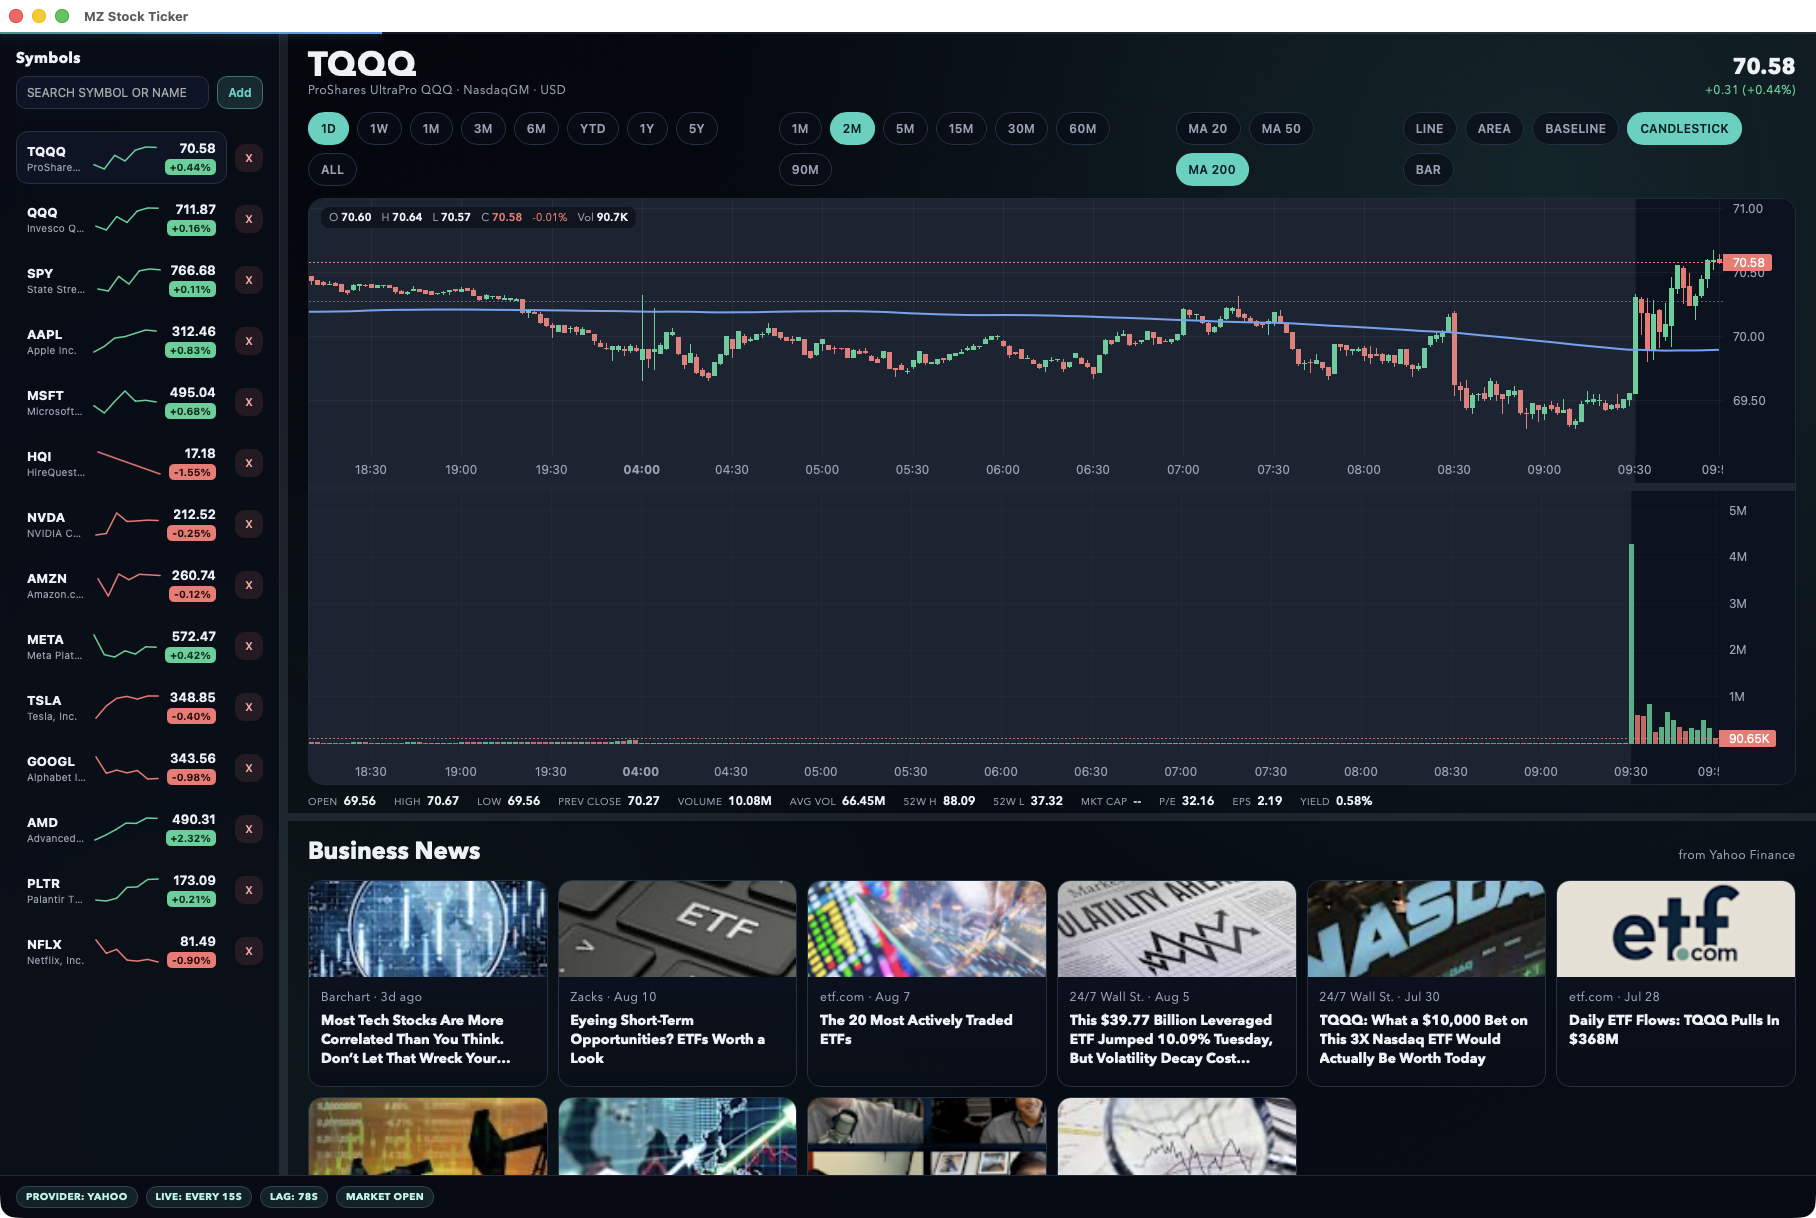
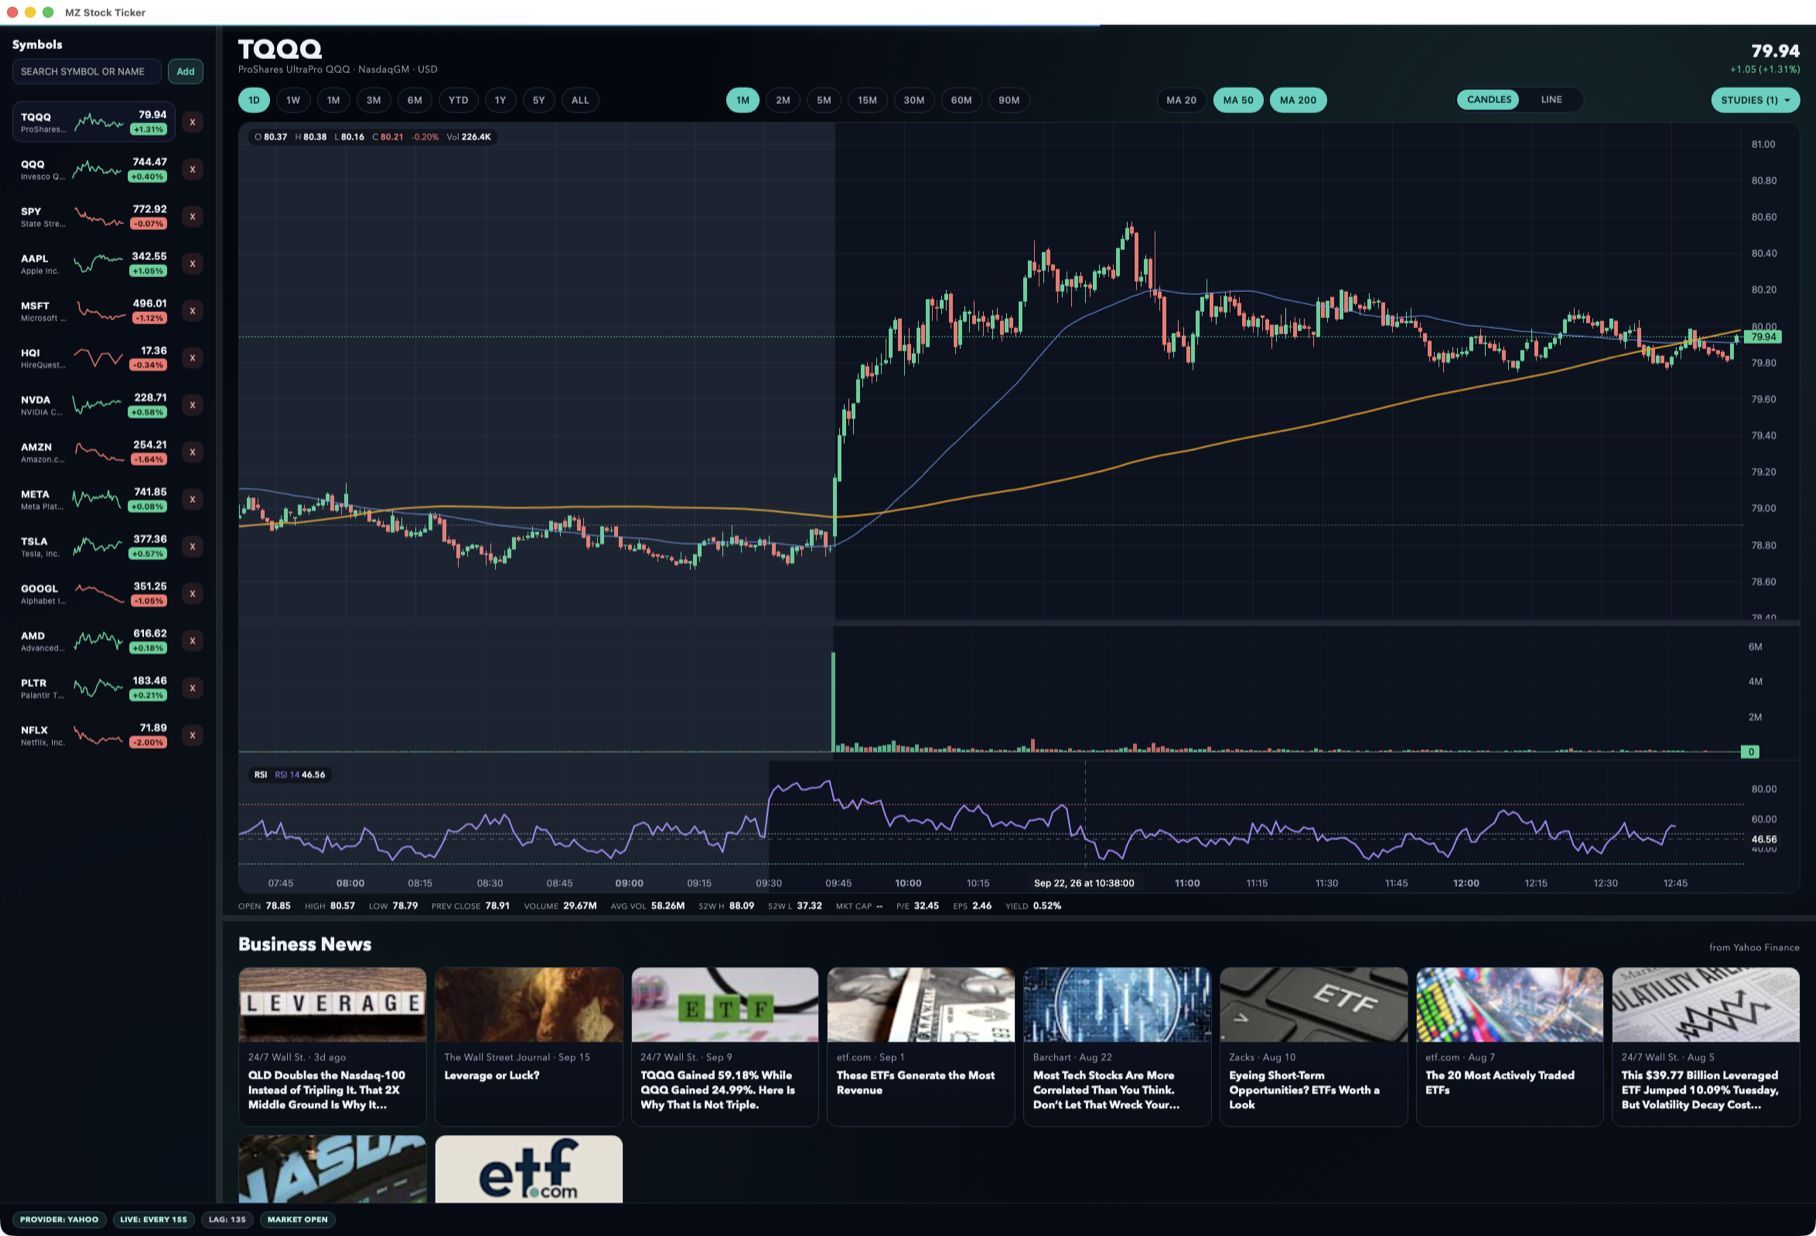
docs: document the settings pane and refresh the screenshots
Replaces the environment-variable table with the Settings pane and where
to find it, adds a shot of the pane, and retakes the main screenshot on
the current UI.

diff --git a/README.md b/README.md
@@ -18,7 +18,7 @@ lightweight app built with Tauri, Rust, and TypeScript.
 [Features](#features) • [Download](#download) • [Tips](#tips) • [Configuration](#configuration) • [Development](#development) • [Data notes](#data-notes)
 
 <a href="https://github.com/MZ-Industries/mz-stock-ticker/releases/latest">
-  <img src="docs/screenshot-main.png" alt="MZ Stock Ticker showing a candlestick chart with moving averages, a live watchlist with sparklines, key statistics, and business news" width="92%" />
+  <img src="docs/screenshot-main.png" alt="MZ Stock Ticker showing a candlestick chart with moving averages and an RSI pane, a live watchlist with sparklines, key statistics, and business news" width="92%" />
 </a>
 
 </div>
@@ -52,6 +52,8 @@ No account. No API key. Add your symbols and go.
 
 - Resizable panes: sidebar width, price/volume split, and chart/news split
 - Everything persists between launches — ticker, range, chart type, enabled studies, pane sizes, visible range, and window position
+- Settings pane for the endpoints, the optional volume-backfill key, and the live poll cadence
+- Updates check themselves in the background and install on a click; "Check for Updates" sits in the app menu, and automatic checking can be turned off there
 
 ## Download
 
@@ -90,19 +92,27 @@ Grab the latest build for your platform from the
 
 ## Configuration
 
-The app works out of the box with no configuration. Power users can tweak it
-through environment variables (in development, a `.env` file in the project
-root is loaded automatically — see [`.env.example`](.env.example)). All are
-optional:
+The app works out of the box, with no account and no API key. Everything below
+is optional and lives in **Settings** — <kbd>⌘</kbd><kbd>,</kbd> or the
+application menu on macOS, **Edit → Settings** on Windows and Linux.
 
-| Variable                                | Default                            | Purpose                                                                                        |
-| --------------------------------------- | ---------------------------------- | ---------------------------------------------------------------------------------------------- |
-| `YAHOO_BASE_URL`                        | `https://query1.finance.yahoo.com` | Override the market-data endpoint                                                              |
-| `YAHOO_NEWS_BASE_URL`                   | `https://query2.finance.yahoo.com` | Override the news endpoint                                                                     |
-| `MASSIVE_API_KEY` / `POLYGON_API_KEY`   | —                                  | Enables volume backfill for candles Yahoo reports with zero volume (mostly pre/post market)    |
-| `MASSIVE_BASE_URL` / `POLYGON_BASE_URL` | `https://api.massive.com`          | Aggregates API used for the volume backfill                                                    |
-| `LIVE_POLL_MS`                          | 15s in extended hours, else 120s   | Live poll interval override (minimum 1000)                                                     |
-| `MASSIVE_DEBUG`                         | off                                | `true` enables backend debug logs                                                              |
+<div align="center">
+  <img src="docs/screenshot-settings.png" alt="The Settings pane showing the market data, news, and volume backfill endpoints, the backfill API key, and the live poll interval" width="72%" />
+</div>
+
+| Setting                    | Default                            | Purpose                                                                                              |
+| -------------------------- | ---------------------------------- | ---------------------------------------------------------------------------------------------------- |
+| Market data endpoint       | `https://query1.finance.yahoo.com` | Quotes, charts, and sparklines                                                                         |
+| News & search endpoint     | `https://query2.finance.yahoo.com` | Business news and symbol search                                                                        |
+| Volume backfill API key    | off                                | Fills in volume for candles Yahoo reports as zero, mostly pre- and post-market                          |
+| Volume backfill endpoint   | `https://api.massive.com`          | Any Polygon-compatible aggregates API, used for that backfill                                          |
+| Live poll interval         | automatic                          | Milliseconds between live updates. Blank follows the session — 15s in extended hours, 120s outside them |
+| Backend debug logs         | off                                | Writes backend request logs to stderr                                                                  |
+
+Saving takes effect on the next request — nothing here needs a restart. A blank
+endpoint falls back to its default, and a poll interval under 1000ms goes back
+to automatic. The values are stored in `settings.json` beside your dashboard
+preferences (`~/Library/Application Support/com.matt.mz-stock-ticker` on macOS).
 
 ## Development
 
@@ -131,10 +141,11 @@ cd src-tauri && cargo test            # backend tests
 The TypeScript frontend (Vite + [lightweight-charts](https://github.com/tradingview/lightweight-charts))
 talks to a Rust backend over Tauri commands: `get_provider_status`,
 `fetch_aggregates`, `fetch_snapshots`, `fetch_sparklines`, `fetch_news`,
-`fetch_symbol_detail`, `search_symbols`, and `start_live_stream` /
-`stop_live_stream`. The live stream republishes Yahoo's 1-minute bars as
+`fetch_symbol_detail`, `search_symbols`, `get_settings` / `save_settings`, and
+`start_live_stream` / `stop_live_stream`. The live stream republishes Yahoo's 1-minute bars as
 `live-bars` events carrying the freshly polled candle tail. Dashboard
-preferences persist via the Tauri Store plugin; window geometry via
+preferences and the Settings pane both persist via the Tauri Store plugin
+(`ui-preferences.json` and `settings.json`); window geometry via
 tauri-plugin-window-state.
 
 Chart scrolling follows real time only while the newest candle is on screen
